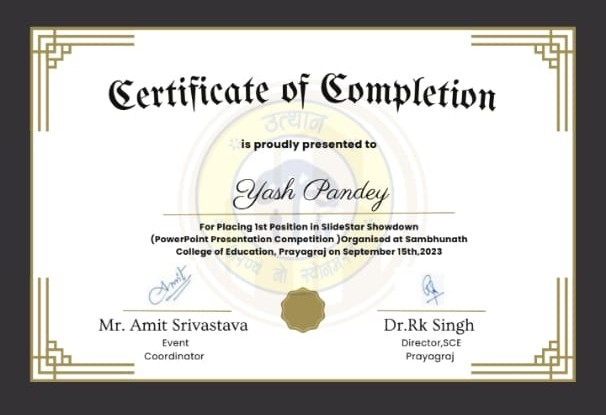
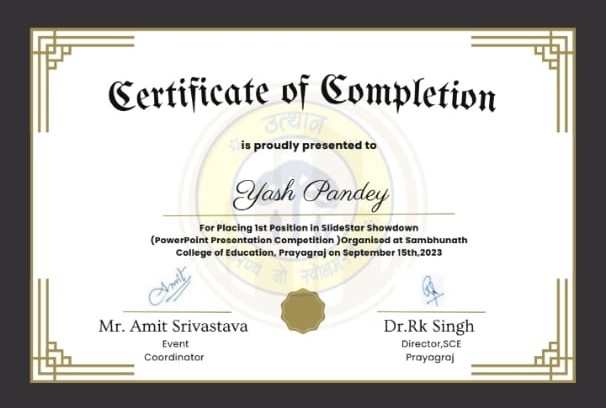
feat: add neighborly project and certificates section

diff --git a/style.css b/style.css
@@ -1,13 +1,13 @@
 /* --- Global Styles & Variables --- */
 :root {
-      --primary-color: #00aaff; /* A bright, professional blue accent */
+    --primary-color: #00aaff; /* A bright, professional blue accent */
     --background-color: #121212; /* Fallback color */
     --surface-color: rgba(22, 22, 22, 0.85); /* Semi-transparent dark grey for cards */
     --text-color: #ffffff; /* White text for high contrast */
     --text-secondary-color: #cccccc; /* Lighter grey for secondary text */
 }
 body {
-      font-family: -apple-system, BlinkMacSystemFont, "Segoe UI", Roboto, Helvetica, Arial, sans-serif;
+    font-family: -apple-system, BlinkMacSystemFont, "Segoe UI", Roboto, Helvetica, Arial, sans-serif;
     
     /* --- Background Image Setup --- */
     background-image: linear-gradient(rgba(18, 18, 18, 0.7), rgba(18, 18, 18, 0.7)), url('background.jpg');
@@ -257,21 +257,6 @@ p {
     margin-top: 1rem;
 }
 
-/* --- Achievements Section --- */
-#achievements ul {
-    list-style: none;
-    max-width: 800px;
-    margin: 0 auto;
-    text-align: left;
-}
-
-#achievements li {
-    background: var(--surface-color);
-    padding: 1rem;
-    margin-bottom: 1rem;
-    border-radius: 5px;
-}
-
 /* --- Footer --- */
 footer {
     background-color: var(--surface-color);
@@ -299,6 +284,61 @@ footer h2 {
     font-size: 0.9rem;
     color: var(--text-secondary-color);
 }
+
+/* --- START: NEW CERTIFICATES VIEW CSS ---
+   This is the new code to fix your certificate layout.
+*/
+#certificates-view .container {
+    max-width: 1200px; /* Allow a wider container for the certificates page */
+}
+
+.certificates-grid {
+  display: grid;
+  /* Creates a responsive grid. Adjust minmax(350px, 1fr) for different card sizes. */
+  grid-template-columns: repeat(auto-fit, minmax(350px, 1fr));
+  gap: 2rem; /* Space between certificate cards */
+  text-align: left;
+}
+
+.certificate-card {
+  background: var(--surface-color);
+  border-radius: 10px;
+  overflow: hidden; /* Ensures the image respects the border radius */
+  box-shadow: 0 4px 8px rgba(0,0,0,0.2);
+  transition: transform 0.3s ease;
+  color: var(--text-secondary-color);
+  display: flex;
+  flex-direction: column;
+}
+
+.certificate-card:hover {
+  transform: translateY(-5px);
+}
+
+.certificate-card img {
+  width: 100%;
+  height: auto;
+  /* This creates the fixed 4:3 ratio you wanted */
+  aspect-ratio: 4 / 3;
+  /* This ensures the entire image fits without stretching or being cut off */
+  object-fit: contain;
+  background-color: #2a2a2a; /* A dark background for any empty space if image ratios differ */
+}
+
+.certificate-card h3 {
+  font-size: 1.25rem;
+  color: var(--primary-color);
+  margin: 1.5rem 1.5rem 0.5rem;
+}
+
+.certificate-card p {
+  font-size: 0.95rem;
+  padding: 0 1.5rem 1.5rem;
+  margin-bottom: 0;
+}
+
+/* --- END: NEW CERTIFICATES VIEW CSS --- */
+
 
 /* --- Responsive Design --- */
 @media (max-width: 768px) {
